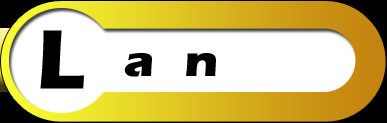
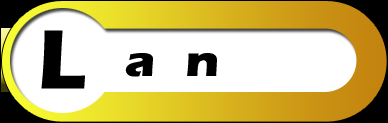
Menu plus joli !

diff --git a/src/polyFever/module/affichage/DessinMenu.java b/src/polyFever/module/affichage/DessinMenu.java
@@ -42,7 +42,7 @@ import static org.lwjgl.opengl.GL20.glUseProgram;
 import static org.lwjgl.opengl.GL20.glVertexAttribPointer;
 import static org.lwjgl.opengl.GL30.glBindVertexArray;
 import static org.lwjgl.opengl.GL30.glGenVertexArrays;
-
+import static org.lwjgl.opengl.GL11.glTexParameteri;
 import java.io.BufferedInputStream;
 import java.io.FileInputStream;
 import java.io.IOException;
@@ -354,7 +354,7 @@ public class DessinMenu {
 			    idTexButtonCredits = GL11.glGenTextures(); // 6
 			    GL11.glBindTexture(GL11.GL_TEXTURE_2D, idTexButtonCredits);
 			        //Upload the buffer's content to the VRAM
-			        GL11.glTexImage2D(GL11.GL_TEXTURE_2D, 0, GL11.GL_RGBA, 387, 123, 0, GL11.GL_RGBA, GL11.GL_UNSIGNED_BYTE, PNGtoTex("images/bouton_credits.png"));
+			        GL11.glTexImage2D(GL11.GL_TEXTURE_2D, 0, GL11.GL_RGBA, 388, 123, 0, GL11.GL_RGBA, GL11.GL_UNSIGNED_BYTE, PNGtoTex("images/bouton_credits.png"));
 			        //Apply filters
 			        GL11.glTexParameteri(GL11.GL_TEXTURE_2D, GL11.GL_TEXTURE_WRAP_S, GL11.GL_REPEAT);
 			        GL11.glTexParameteri(GL11.GL_TEXTURE_2D, GL11.GL_TEXTURE_WRAP_T, GL11.GL_REPEAT);
@@ -365,7 +365,7 @@ public class DessinMenu {
 			    idTexButtonHost = GL11.glGenTextures(); // 7
 			    GL11.glBindTexture(GL11.GL_TEXTURE_2D, idTexButtonHost);
 			        //Upload the buffer's content to the VRAM
-			        GL11.glTexImage2D(GL11.GL_TEXTURE_2D, 0, GL11.GL_RGBA, 387, 123, 0, GL11.GL_RGBA, GL11.GL_UNSIGNED_BYTE, PNGtoTex("images/bouton_host.png"));
+			        GL11.glTexImage2D(GL11.GL_TEXTURE_2D, 0, GL11.GL_RGBA, 388, 123, 0, GL11.GL_RGBA, GL11.GL_UNSIGNED_BYTE, PNGtoTex("images/bouton_host.png"));
 			        //Apply filters
 			        GL11.glTexParameteri(GL11.GL_TEXTURE_2D, GL11.GL_TEXTURE_WRAP_S, GL11.GL_REPEAT);
 			        GL11.glTexParameteri(GL11.GL_TEXTURE_2D, GL11.GL_TEXTURE_WRAP_T, GL11.GL_REPEAT);
@@ -376,7 +376,7 @@ public class DessinMenu {
 			    idTexButtonLAN = GL11.glGenTextures(); // 8
 			    GL11.glBindTexture(GL11.GL_TEXTURE_2D, idTexButtonLAN);
 			        //Upload the buffer's content to the VRAM
-			        GL11.glTexImage2D(GL11.GL_TEXTURE_2D, 0, GL11.GL_RGBA, 387, 123, 0, GL11.GL_RGBA, GL11.GL_UNSIGNED_BYTE, PNGtoTex("images/bouton_lan_multi.png"));
+			        GL11.glTexImage2D(GL11.GL_TEXTURE_2D, 0, GL11.GL_RGBA, 388, 123, 0, GL11.GL_RGBA, GL11.GL_UNSIGNED_BYTE, PNGtoTex("images/bouton_lan_multi.png"));
 			        //Apply filters
 			        GL11.glTexParameteri(GL11.GL_TEXTURE_2D, GL11.GL_TEXTURE_WRAP_S, GL11.GL_REPEAT);
 			        GL11.glTexParameteri(GL11.GL_TEXTURE_2D, GL11.GL_TEXTURE_WRAP_T, GL11.GL_REPEAT);
@@ -387,7 +387,7 @@ public class DessinMenu {
 			    idTexButtonLocal = GL11.glGenTextures(); // 9
 			    GL11.glBindTexture(GL11.GL_TEXTURE_2D, idTexButtonLocal);
 			        //Upload the buffer's content to the VRAM
-			        GL11.glTexImage2D(GL11.GL_TEXTURE_2D, 0, GL11.GL_RGBA, 387, 123, 0, GL11.GL_RGBA, GL11.GL_UNSIGNED_BYTE, PNGtoTex("images/bouton_local_multi.png"));
+			        GL11.glTexImage2D(GL11.GL_TEXTURE_2D, 0, GL11.GL_RGBA, 388, 123, 0, GL11.GL_RGBA, GL11.GL_UNSIGNED_BYTE, PNGtoTex("images/bouton_local_multi.png"));
 			        //Apply filters
 			        GL11.glTexParameteri(GL11.GL_TEXTURE_2D, GL11.GL_TEXTURE_WRAP_S, GL11.GL_REPEAT);
 			        GL11.glTexParameteri(GL11.GL_TEXTURE_2D, GL11.GL_TEXTURE_WRAP_T, GL11.GL_REPEAT);
@@ -398,7 +398,7 @@ public class DessinMenu {
 			    idTexButtonPlay = GL11.glGenTextures(); // 10
 			    GL11.glBindTexture(GL11.GL_TEXTURE_2D, idTexButtonPlay);
 			        //Upload the buffer's content to the VRAM
-			        GL11.glTexImage2D(GL11.GL_TEXTURE_2D, 0, GL11.GL_RGBA, 387, 123, 0, GL11.GL_RGBA, GL11.GL_UNSIGNED_BYTE, PNGtoTex("images/bouton_play.png"));
+			        GL11.glTexImage2D(GL11.GL_TEXTURE_2D, 0, GL11.GL_RGBA, 388, 123, 0, GL11.GL_RGBA, GL11.GL_UNSIGNED_BYTE, PNGtoTex("images/bouton_play.png"));
 			        //Apply filters
 			        GL11.glTexParameteri(GL11.GL_TEXTURE_2D, GL11.GL_TEXTURE_WRAP_S, GL11.GL_REPEAT);
 			        GL11.glTexParameteri(GL11.GL_TEXTURE_2D, GL11.GL_TEXTURE_WRAP_T, GL11.GL_REPEAT);
@@ -409,7 +409,7 @@ public class DessinMenu {
 			    idTexButtonQuit = GL11.glGenTextures(); // 11
 			    GL11.glBindTexture(GL11.GL_TEXTURE_2D, idTexButtonQuit);
 			        //Upload the buffer's content to the VRAM
-			        GL11.glTexImage2D(GL11.GL_TEXTURE_2D, 0, GL11.GL_RGBA, 387, 123, 0, GL11.GL_RGBA, GL11.GL_UNSIGNED_BYTE, PNGtoTex("images/bouton_quit.png"));
+			        GL11.glTexImage2D(GL11.GL_TEXTURE_2D, 0, GL11.GL_RGBA, 388, 123, 0, GL11.GL_RGBA, GL11.GL_UNSIGNED_BYTE, PNGtoTex("images/bouton_quit.png"));
 			        //Apply filters
 			        GL11.glTexParameteri(GL11.GL_TEXTURE_2D, GL11.GL_TEXTURE_WRAP_S, GL11.GL_REPEAT);
 			        GL11.glTexParameteri(GL11.GL_TEXTURE_2D, GL11.GL_TEXTURE_WRAP_T, GL11.GL_REPEAT);
@@ -420,7 +420,7 @@ public class DessinMenu {
 			    idTexButtonSettings = GL11.glGenTextures(); // 12
 			    GL11.glBindTexture(GL11.GL_TEXTURE_2D, idTexButtonSettings);
 			        //Upload the buffer's content to the VRAM
-			        GL11.glTexImage2D(GL11.GL_TEXTURE_2D, 0, GL11.GL_RGBA, 387, 123, 0, GL11.GL_RGBA, GL11.GL_UNSIGNED_BYTE, PNGtoTex("images/bouton_settings.png"));
+			        GL11.glTexImage2D(GL11.GL_TEXTURE_2D, 0, GL11.GL_RGBA, 388, 123, 0, GL11.GL_RGBA, GL11.GL_UNSIGNED_BYTE, PNGtoTex("images/bouton_settings.png"));
 			        //Apply filters
 			        GL11.glTexParameteri(GL11.GL_TEXTURE_2D, GL11.GL_TEXTURE_WRAP_S, GL11.GL_REPEAT);
 			        GL11.glTexParameteri(GL11.GL_TEXTURE_2D, GL11.GL_TEXTURE_WRAP_T, GL11.GL_REPEAT);
@@ -431,7 +431,7 @@ public class DessinMenu {
 			    idTexButtonBack = GL11.glGenTextures(); // 13
 			    GL11.glBindTexture(GL11.GL_TEXTURE_2D, idTexButtonBack);
 			        //Upload the buffer's content to the VRAM
-			        GL11.glTexImage2D(GL11.GL_TEXTURE_2D, 0, GL11.GL_RGBA, 235, 83, 0, GL11.GL_RGBA, GL11.GL_UNSIGNED_BYTE, PNGtoTex("images/bouton_retour.png"));
+			        GL11.glTexImage2D(GL11.GL_TEXTURE_2D, 0, GL11.GL_RGBA, 236, 83, 0, GL11.GL_RGBA, GL11.GL_UNSIGNED_BYTE, PNGtoTex("images/bouton_retour.png"));
 			        //Apply filters
 			        GL11.glTexParameteri(GL11.GL_TEXTURE_2D, GL11.GL_TEXTURE_WRAP_S, GL11.GL_REPEAT);
 			        GL11.glTexParameteri(GL11.GL_TEXTURE_2D, GL11.GL_TEXTURE_WRAP_T, GL11.GL_REPEAT);
